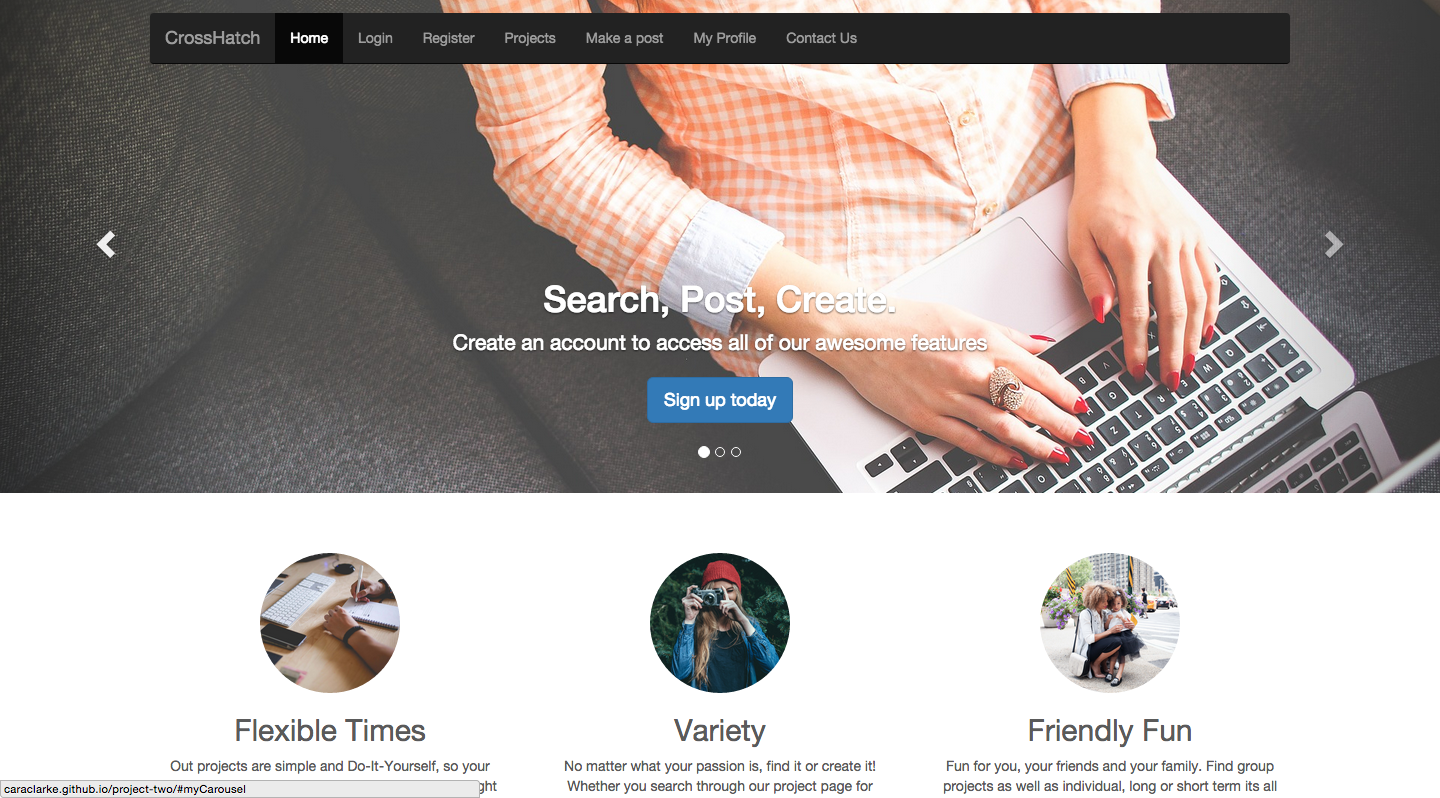
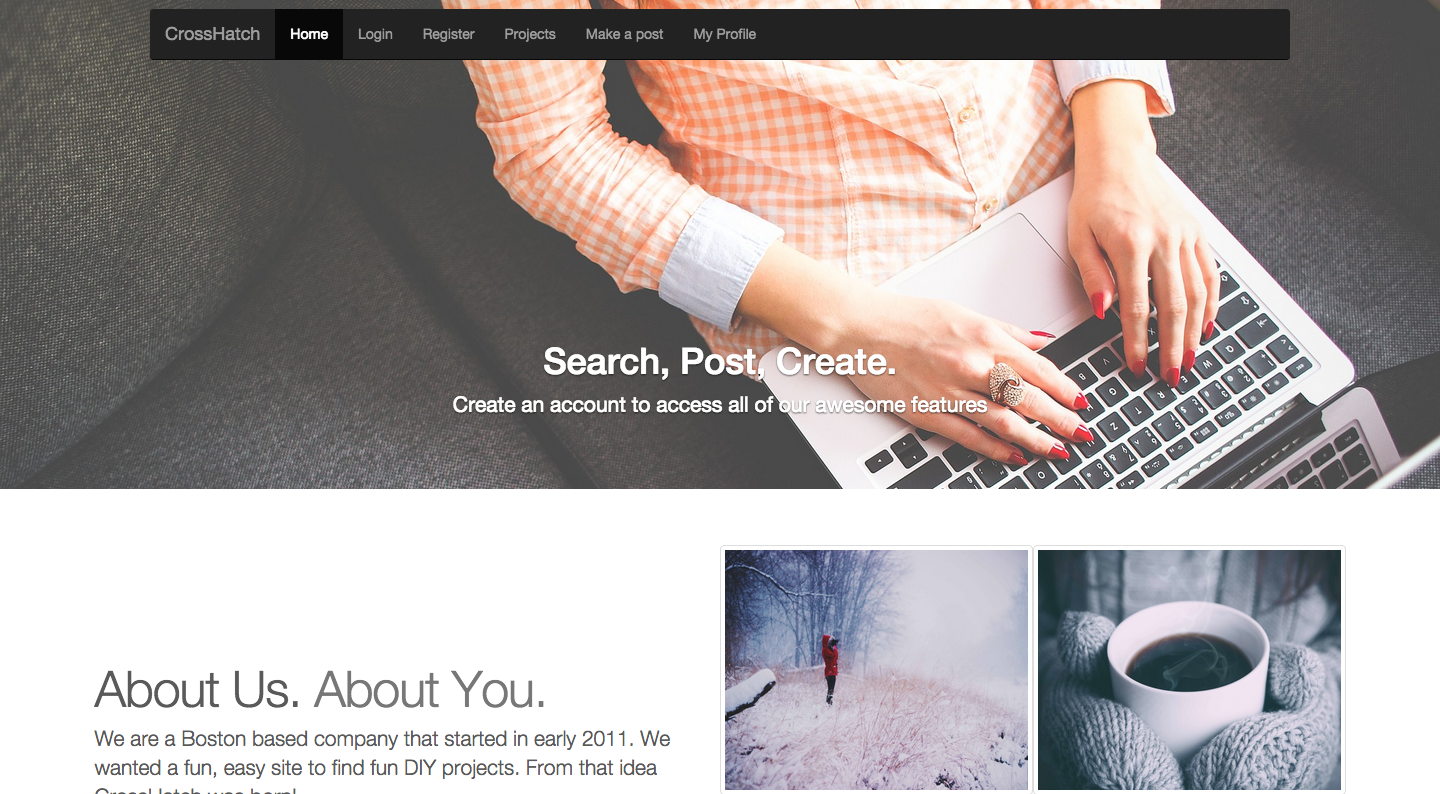
Fixed picture proportions

diff --git a/index.html b/index.html
@@ -4,15 +4,14 @@
   <meta charset="utf-8">
   <meta http-equiv="X-UA-Compatible" content="IE=edge">
   <title>Cara Clarke</title>
-  <link rel="stylesheet" href="lib/bootstrap.min.css">
-  <link rel="stylesheet" type="text/css" href="style/main_style.css">
   <!-- jquery -->
   <script src="https://ajax.googleapis.com/ajax/libs/jquery/1.11.3/jquery.min.js"></script>
   <!-- devicon link -->
   <link rel="stylesheet" href="https://cdn.rawgit.com/konpa/devicon/89f2f44ba07ea3fff7e561c2142813b278c2d6c6/devicon.min.css">
-  <!-- bootstrap & font awesome -->
-  <script src="lib/bootstrap.min.css"></script>
+  <!-- bootstrap & font awesome & stylesheet -->
+  <link rel="stylesheet" href="lib/bootstrap.min.css">
   <link rel="stylesheet" href="https://maxcdn.bootstrapcdn.com/font-awesome/4.4.0/css/font-awesome.min.css">
+  <link rel="stylesheet" type="text/css" href="style/main_style.css">
   <!-- foundation css -->
   <link rel="stylesheet" href="foundation-5.5.2/css/foundation.css">
   <link rel="stylesheet" href="foundation-5.5.2/css/portfolio-theme.css">
@@ -59,28 +58,28 @@
     </div>
   </div>
 
-  <div class="row about-columns">
+  <div class="row about">
     <hr>
     <div class="large-12 columns">
       <ul class="clearing-thumbs small-block-grid-1 medium-block-grid-2 large-block-grid-4" data-clearing>
         <li>
           <i class="fa fa-2x fa-coffee"></i>
-          <h3>Full-Stack Programmer</h3>
+          <h4>Full-Stack Programmer</h4>
           <p class="text-muted">Knowing front and back end languages, skills and frameworks I enjoy the opportunity and challenge of working with an application from beginning to end.</p>
         </li>
         <li>
           <i class="fa fa-2x fa-code"></i>
-          <h3>Designing and Developing</h3>
+          <h4>Designing and Developing</h4>
           <p class="text-muted">My background in User Experience Design allows me to build functional apps that are visually appealing and responsive.</p>
         </li>
         <li>
           <i class="fa fa-2x fa-globe"></i>
-          <h3>Client Oriented</h3>
+          <h4>Client Oriented</h4>
           <p class="text-muted">My previous experience working in customer service gave me strong communication skills and a desire to build relationships with clients. I enjoy the time I spend collaborating with different people and teams.</p>
         </li>
         <li>
           <i class="fa fa-2x fa-book"></i>
-          <h3>Always Learning</h3>
+          <h4>Always Learning</h4>
           <p class="text-muted">I enjoy opportunities to solve problems, learn new languages and challenge myself to grow personally and professionally.</p>
         </li>
       </ul>
@@ -148,7 +147,7 @@
     <div class="large-12 columns">
       <h4>Projects</h4>
       <p>Click on each image to view my work!</p>
-      <ul class="clearing-thumbs small-block-grid-1 medium-block-grid-2 large-block-grid-4" data-clearing>
+      <ul class="clearing-thumbs small-block-grid-1 medium-block-grid-2 large-block-grid-3" data-clearing>
         <li>
           <a href="https://github.com/caraclarke/project-one" target="_blank">
             <img data-caption="Tic-Tac-Toe" src="images/project-one.png"></a>

diff --git a/style/main_style.css b/style/main_style.css
@@ -21,7 +21,7 @@ h1 {
   line-height: 55px;
 }
 
-h3 {
+h3, h4 {
   font-family: 'Arvo', Georgia, Times, serif;
   font-size: 35px;
   line-height: 40px;
@@ -41,19 +41,6 @@ html {
 svg {
   height: 50px;
   width: 50px;
-}
-
-@media(min-width:767px) {
-    .navbar {
-        padding: 20px 0;
-        -webkit-transition: background .5s ease-in-out,padding .5s ease-in-out;
-        -moz-transition: background .5s ease-in-out,padding .5s ease-in-out;
-        transition: background .5s ease-in-out,padding .5s ease-in-out;
-    }
-
-    .top-nav-collapse {
-        padding: 0;
-    }
 }
 
 /* Landing area */
@@ -95,60 +82,4 @@ svg {
     border-color: #D0D3D4;
     color: #D0D3D4;
     box-shadow: none;
-}
-
-/* Sections */
-
-/* Intro */
-.intro-section {
-    height: 100%;
-    padding-top: 150px;
-    text-align: center;
-    background-image: url('../images/landing-background.jpg');
-      background-size: cover;
-      background-position: center;
-}
-
-a {
-  color: #000;
-}
-
-/* Tech Exp */
-.tech-exp-section {
-    padding-top: 50px;
-    padding-bottom: 25px;
-    text-align: center;
-    background: #fff;
-}
-
-/* Projects */
-.project-section {
-    padding-top: 100px;
-    padding-bottom: 25px;
-    text-align: center;
-    background: #eee;
-}
-
-/* Text over project screenshots */
-
-#wrapper .text {
-position:relative;
-bottom:30px;
-left:0px;
-visibility:hidden;
-background: rgba(0,0,0,0.5);
-color: #fff;
-}
-
-#wrapper:hover .text {
-visibility:visible;
-}
-
-/* Connect */
-.connect-section {
-    /*height: 100%;*/
-    padding-top: 50px;
-    padding-bottom: 25px;
-    text-align: center;
-    background: #fff;
 }

diff --git a/foundation-5.5.2/css/portfolio-theme.css b/foundation-5.5.2/css/portfolio-theme.css
@@ -1,5 +1,4 @@
 body {
-	font-family: 'Raleway', Helvetica, Arial, sans-serif;
 	font-weight: 400;
 	background-color: rgba(0, 0, 0, 0.02);
 }
@@ -87,12 +86,16 @@ body {
 	padding: 50px 0 0 0;
 }
 
-.about {
-	text-align: left;
+.contact a {
+	color: #000;
 }
 
-.about h4 {
+.about {
 	text-align: center;
+}
+
+.about p {
+	text-align: left;
 }
 
 .about img{
@@ -113,7 +116,7 @@ body {
 }
 
 .work li {
-	height: 140px;
+	height: 100%;
 	overflow: hidden;
 }
 
